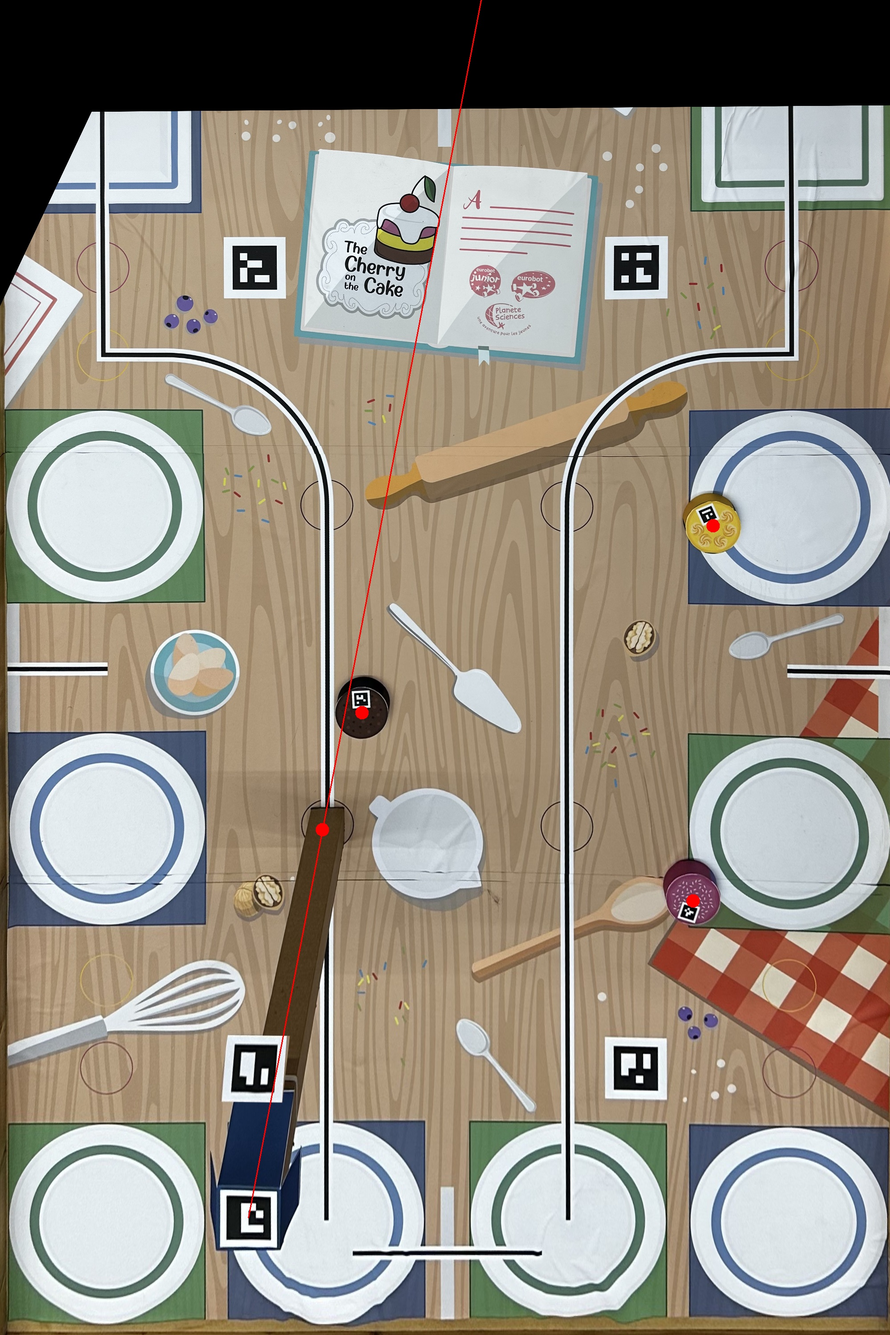
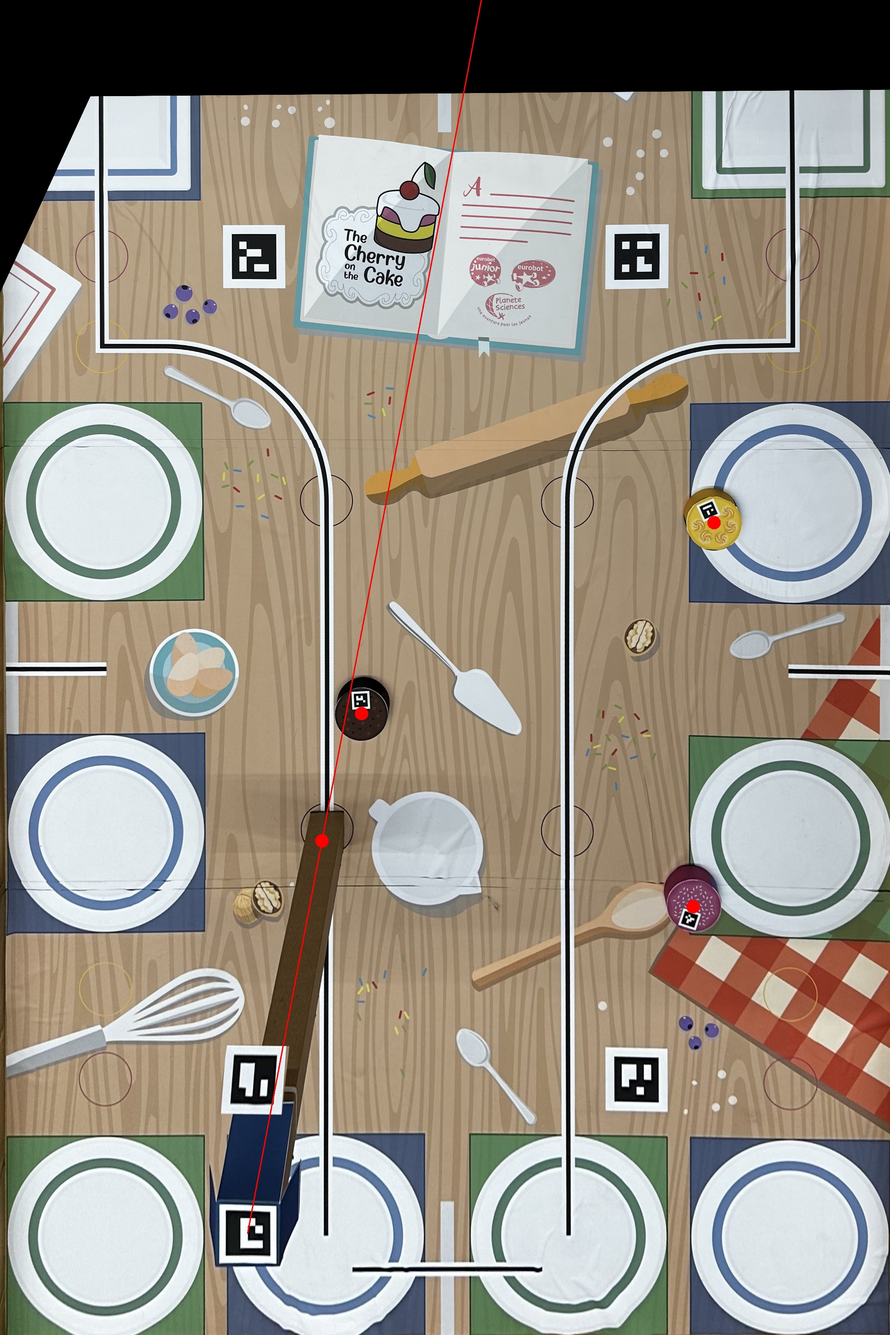
correct aruco pos and rename

diff --git a/CTS/detection.py b/CTS/detection.py
@@ -4,58 +4,12 @@ from shapely.geometry import LineString
 import shapely
 
 DICTIONAIRY = cv2.aruco.getPredefinedDictionary(cv2.aruco.DICT_4X4_250)
-BWIDTH, BHEIGHT = 2000, 3000
-BW_SEG, BH_SEG = BWIDTH / 7, BHEIGHT / 5
-# WIDTH, HEIGHT = int(BWIDTH * 1.2), int(BHEIGHT * 1.2)
-WIDTH, HEIGHT = BWIDTH, BHEIGHT
-# W_SEG, H_SEG = WIDTH / 12, HEIGHT / 12
-W_SEG, H_SEG = 0, 0
+WIDTH, HEIGHT = 2000, 3000
+CODE_X_OFFSET, CODE_Y_OFFSET = 570, 575
 PARAMS = cv2.aruco.DetectorParameters()
 DETECTOR = cv2.aruco.ArucoDetector(DICTIONAIRY, PARAMS)
 BOT_HEIGHT = 430
 CAM_POS = (1100, -100, 1400)
-
-
-MAX_CHERRY_CONTOUR = 500
-MIN_PUCK_CONTOUR = 1500
-
-PUCK_SORT = lambda y: sorted(
-    filter(lambda x: cv2.contourArea(x) > MIN_PUCK_CONTOUR, y),
-    key=cv2.contourArea,
-    reverse=True,
-)[:12]
-CHERRY_SORT = lambda y: filter(lambda x: cv2.contourArea(x) < MAX_CHERRY_CONTOUR, y)
-
-HSVCOLORS = (
-    (
-        (15, 53, 24),
-        (0, 100, 255),
-        45,
-        (20, 20),
-        PUCK_SORT,
-    ),  # brown
-    (
-        (333, 60, 60),
-        (230, 0, 255),
-        45,
-        (20, 20),
-        PUCK_SORT,
-    ),  # pink
-    (
-        (40, 80, 80),
-        (0, 255, 255),
-        45,
-        (20, 20),
-        PUCK_SORT,
-    ),  # yellow
-    (
-        (6, 76, 71),
-        (0, 0, 255),
-        25,
-        (3, 3),
-        CHERRY_SORT,
-    ),  # red
-)
 
 
 def camera_compensation(x, y, frame):
@@ -84,10 +38,10 @@ def getMatrixAndBots(frame):
     pts1 = np.float32(grid)
     pts2 = np.float32(
         [
-            [W_SEG + BW_SEG * 2, H_SEG + BH_SEG],
-            [W_SEG + BWIDTH - BW_SEG * 2, H_SEG + BH_SEG],
-            [W_SEG + BW_SEG * 2, H_SEG + BH_SEG * 4],
-            [W_SEG + BWIDTH - BW_SEG * 2, H_SEG + BH_SEG * 4],
+            [CODE_X_OFFSET, CODE_Y_OFFSET],
+            [WIDTH - CODE_X_OFFSET, CODE_Y_OFFSET],
+            [CODE_X_OFFSET, HEIGHT - CODE_Y_OFFSET],
+            [WIDTH - CODE_X_OFFSET, HEIGHT - CODE_Y_OFFSET],
         ]
     )
     matrix = cv2.getPerspectiveTransform(pts1, pts2)
@@ -136,5 +90,4 @@ while True:
         pass
 img = cv2.warpPerspective(img, matrix, (WIDTH, HEIGHT))
 getItems(img, bots)
-# print(cv2.perspectiveTransform(np.float32([grid]), matrix)) # tranforms grid to new grid
-cv2.imwrite("CTS/pics/" + "warped.jpeg", img)
+cv2.imwrite("CTS/pics/warped.jpeg", img)
